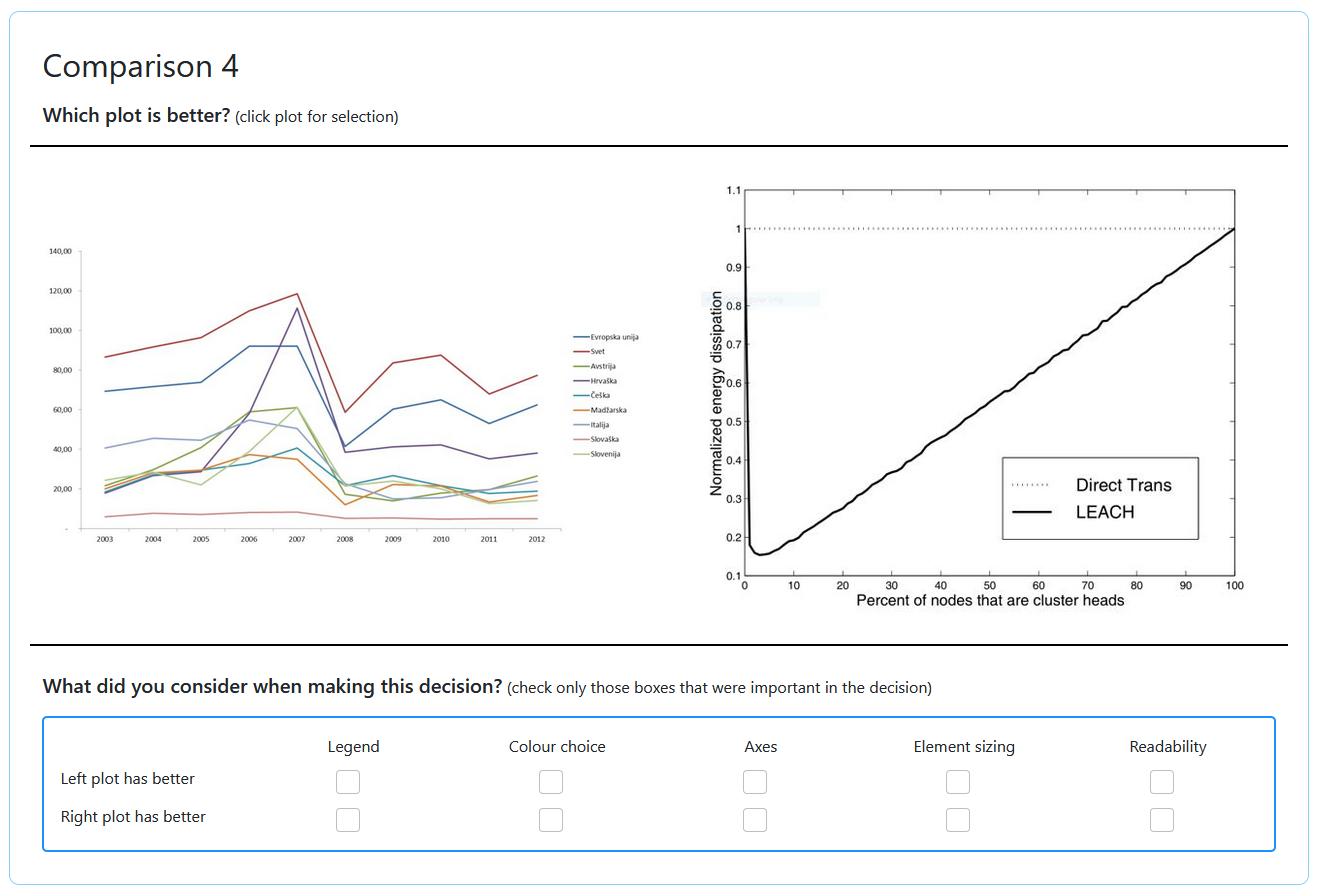
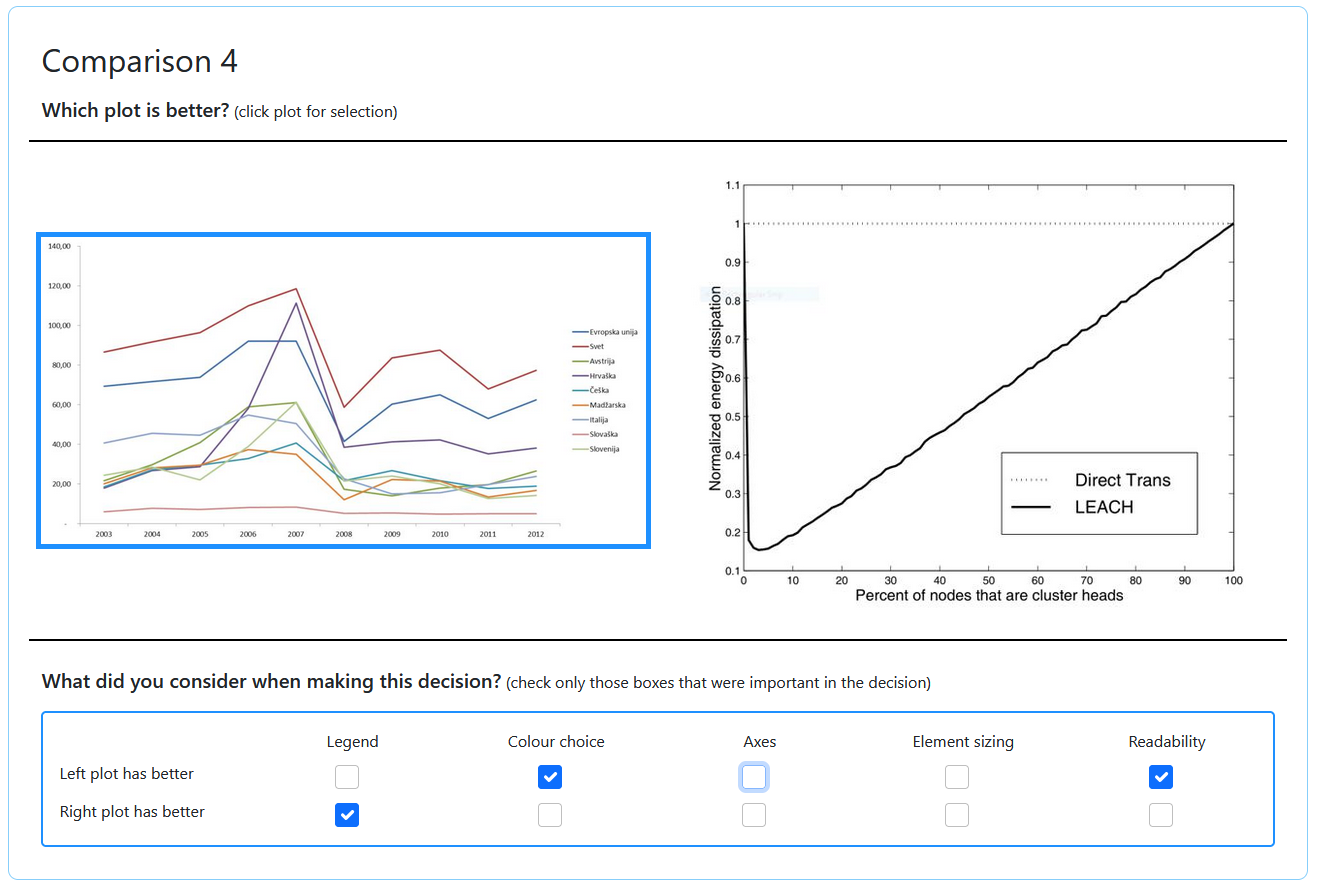
Added new picture for questionnaire

diff --git a/README.md b/README.md
@@ -17,11 +17,12 @@ For scrapping the PDF's from https://repozitorij.uni-lj.si, use the code at ```u
 ## Classificator
 
 
-## MT
+## Amazon Mechanical Turk
 
-You can see how did the survey on Amazon's MT look like on picture below.
-
-![primer](link do slike)
+Amazon Mechanical turk was used for crowdsourcing the questionnaires about the plot quality.
+Swiss-system tournament was used in which pairwise comparisons between plots were evaluated by workers.
+Each worker had to solve 10 plot comparisons. Below is an example of a comparison, in wh
+![Amazon Mechanical Turk questionnaire](https://github.com/AndrejHafner/how-good-is-my-plot/blob/develop/src/figures/questionnaire.png)
 
 
 You can calculate how much is certain survey going to cost you with ```price_calculator.py```.
